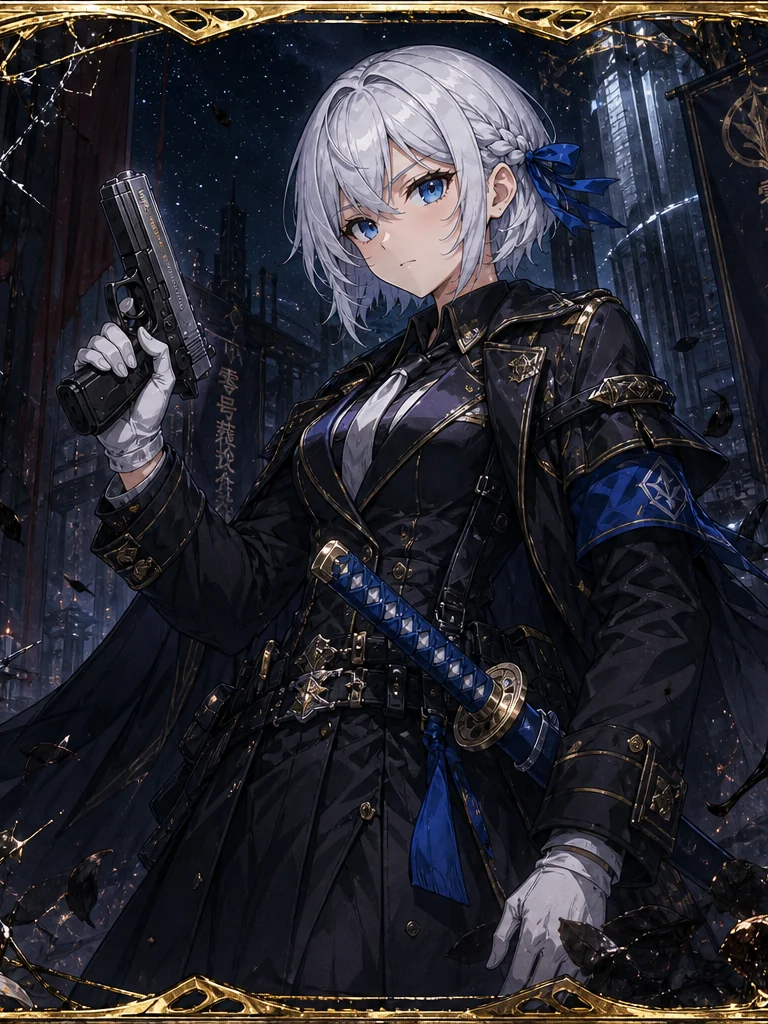
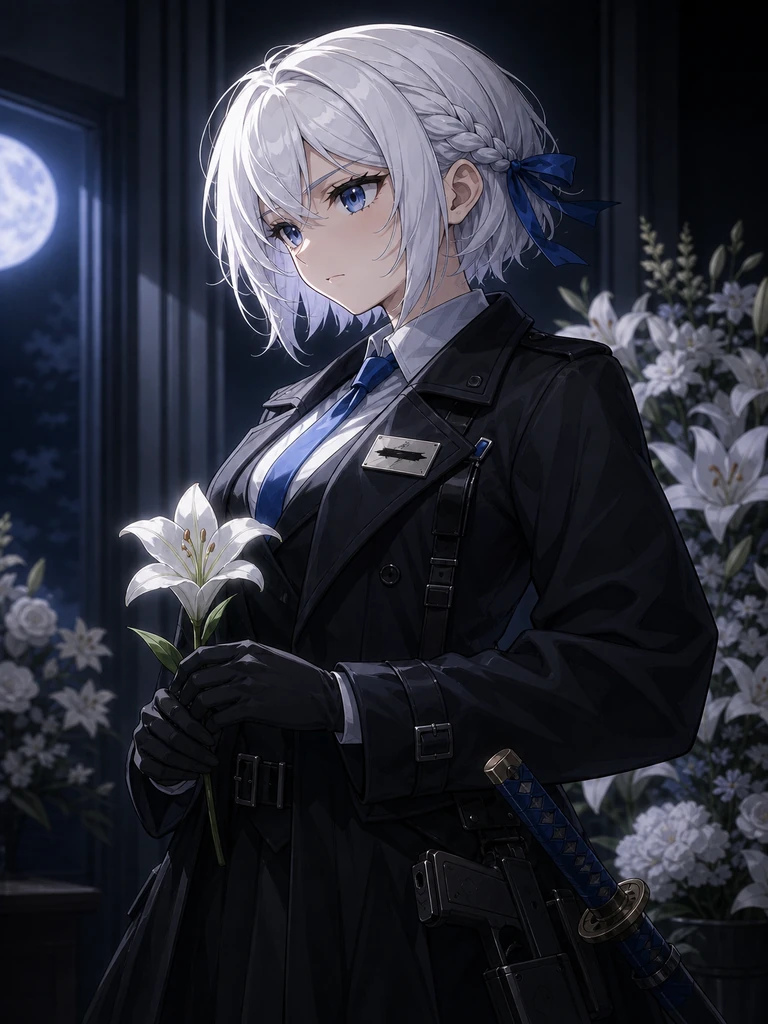
feat: redraw 6 legendary fashion and weapon covers
Quiet luxury key visuals: crown, funeral lily, silk veil,
final cartridge, mirror blade, unmarked burial sword.
No aiming, no card chrome. Titles and pool numbers unchanged.

diff --git a/docs/LEGEND_FACE_CHECK.md b/docs/LEGEND_FACE_CHECK.md
@@ -1,0 +1,18 @@
+# 传说封面认人抽查
+
+2026-08-19。只换 6 张传说。人打「过 / 哪几张重画」。
+
+路径：`android-app/app/src/main/assets/game/art/gacha/{id}.webp`，768×1024。未覆盖 18 张非传说、旧 8 残件、14 `school_*`、28 `job_*`、24 `fusion_*`、`banner_bg` / `card_back` / `hero_*`。标题未改。
+
+出图按卡池 KV：脸在上三分之一、下三分之一留空、单光源、少粒子、无金框无星无字。时装是礼、武器是静物，不举枪、不挥刀。
+
+| id | 标题 | 角色 | 发色 / 兵器 | 失败痕迹 | 战斗感 | 自检 |
+|---|---|---|---|---|---|---|
+| fashion_sayo_crown | 终夜樱冠 | 小夜 | 紫黑发、金樱冠；步枪立在身后未持 | 冠裂仍亮 | 未瞄准 | 是 |
+| fashion_aya_funeral | 零号葬仪 | 绫 | 银白发、蓝缎带；双手捧百合 | 工牌涂名 | 枪在腰侧朝下，未贴脸未朝天 | 是 |
+| fashion_rion_bride | 黄泉花嫁 | 凛音 | 黑发透红、琥珀眼；红绸盖头 | 无人掀盖 | 葬刀旁立未握 | 是 |
+| weapon_sayo_final | 夜樱终弹 | 小夜 | 紫黑发；掌心一发金弹，步枪横膝 | 空仓 | 未抵肩 | 是 |
+| weapon_aya_mirror | 月切·镜反 | 绫 | 银白发；镜刃横胸，刃里只有自己的眼 | 刃已裂 | 枪在腰侧朝下，刀不挡脸 | 是 |
+| weapon_rion_burial | 黑羽葬 | 凛音 | 黑发透红；一把无字葬刀插土 | 三朵彼岸花 | 无剑冢战场 | 是 |
+
+六张互不相同，也不等于 18 张非传说。绫枪不举到脸边、不朝天。不画双人拼脸。刀上无汉字。

diff --git a/docs/SWEEP_LOG.md b/docs/SWEEP_LOG.md
@@ -35,3 +35,4 @@ A/B 每轮追加一行，不准删旧记录。
 | 2026-08-19 | 换拼卡 | 刀1 18张图 | 18 张 768×1024 生成图，互不相同；两对已拆。见 docs/FASHION_FACE_CHECK.md。未覆盖旧 8/14/28/24/传说/公共图。 | 自检 18/18 能报出人；两对哈希不同 | 拼卡复用同一张图 | 刀2 四段 |
 | 2026-08-19 | 换拼卡 | 刀2 四段 | 12+12 lore 各 4 句，每句汉字>8；传说只加长不改标题。lobby_unit 加汉字/体积/拆对/传说哈希。 | lobby 绿 | 旧四段多句≤8 | 刀3 门A |
 | 2026-08-19 | 换拼卡 | 刀3 门A | static / lobby / live / ops 绿。framework/browser 本环境无 Playwright，未跑。未升 4.6.1。未交 APK。停，等人认人 18 张。 | 门A 能跑的全绿 | 云端缺 Playwright | 等人认人后收工 |
+| 2026-08-19 | 传说封面 | 重画 6 张 | 只换 6 张传说：终夜樱冠 / 零号葬仪 / 黄泉花嫁 / 夜樱终弹 / 月切·镜反 / 黑羽葬。静的奢侈封面，降战斗感和粒子噪。未覆盖 18 非传说、旧 8/14/28/24/公共图。标题未改。见 docs/LEGEND_FACE_CHECK.md。 | lobby/live/ops/static | 上一轮围栏不准动传说 | 等人认人 6 张 |
